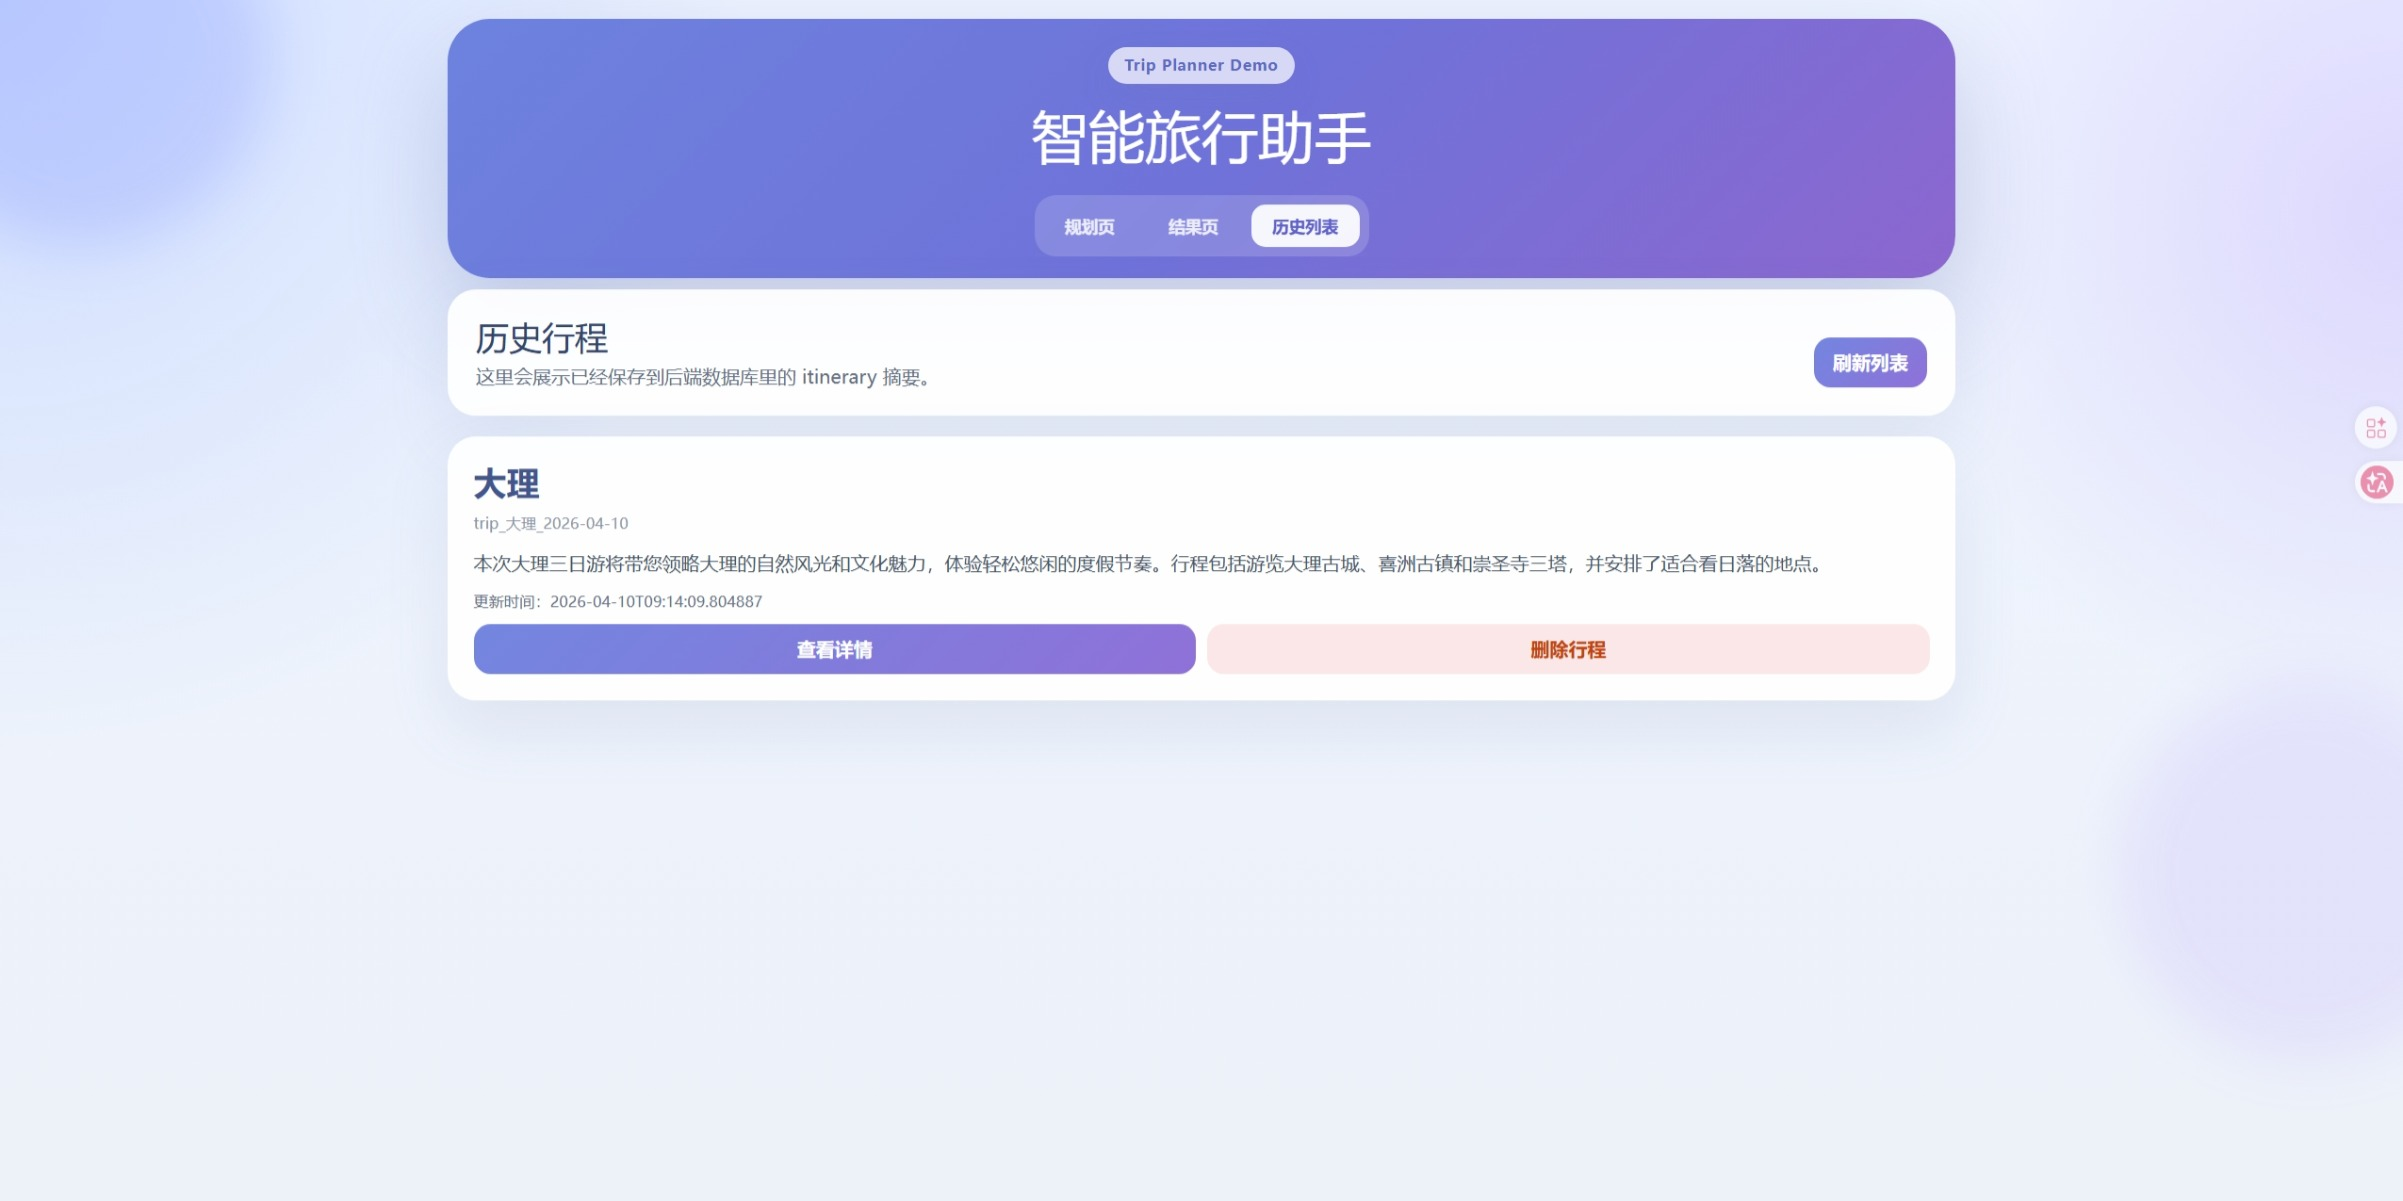
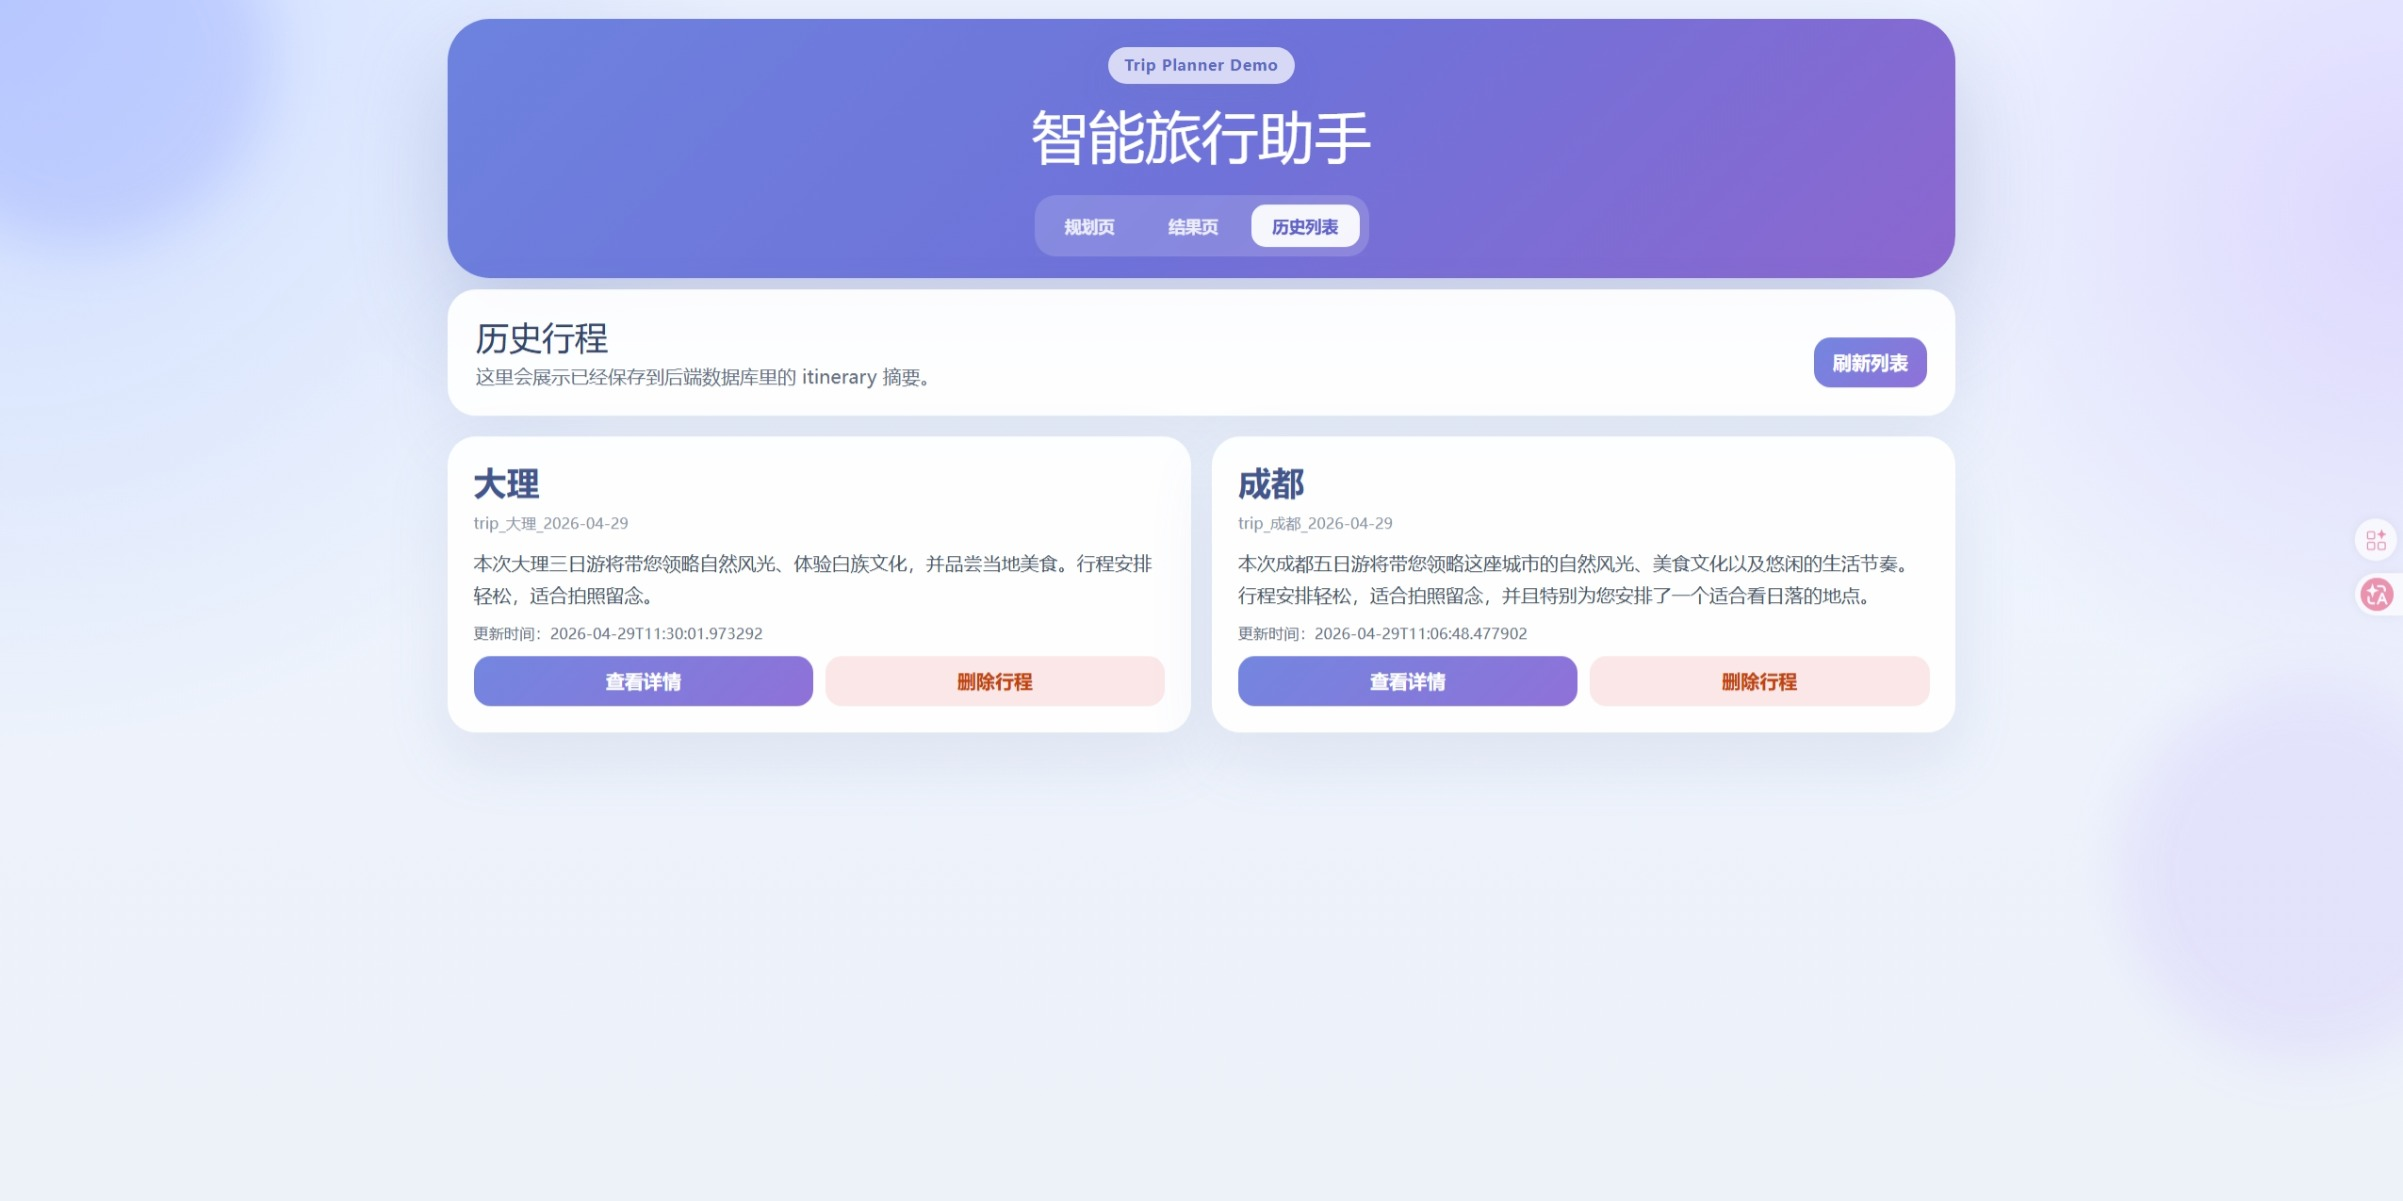
更新前端-地图显示

Changed region(s): [[0.1873, 0.3697, 0.8115, 0.6162], [0.9675, 0.3389, 0.9988, 0.4313], [0.9675, 0.4621, 0.9988, 0.5237]]

diff --git a/frontend/src/components/AmapTripMap.vue b/frontend/src/components/AmapTripMap.vue
@@ -11,6 +11,7 @@ interface TripMapPoint {
   latitude: number | null | undefined;
   longitude: number | null | undefined;
   poiId: string | null | undefined;
+  imageUrl?: string | null;
   description: string;
 }
 
@@ -27,6 +28,7 @@ declare global {
 const mapContainer = ref<HTMLDivElement | null>(null);
 const mapInstance = ref<any>(null);
 const markerList = ref<any[]>([]);
+const routeLine = ref<any>(null);
 const loadError = ref("");
 
 const amapKey = import.meta.env.VITE_AMAP_JS_KEY;
@@ -37,7 +39,7 @@ const validPoints = computed(() =>
   )
 );
 
-function clearMarkers() {
+function clearOverlays() {
   if (!mapInstance.value) {
     return;
   }
@@ -46,6 +48,11 @@ function clearMarkers() {
     mapInstance.value.remove(marker);
   });
   markerList.value = [];
+
+  if (routeLine.value) {
+    mapInstance.value.remove(routeLine.value);
+    routeLine.value = null;
+  }
 }
 
 function renderMarkers() {
@@ -53,25 +60,80 @@ function renderMarkers() {
     return;
   }
 
-  clearMarkers();
+  clearOverlays();
 
+  const sorted = [...validPoints.value].sort((a, b) => a.dayIndex - b.dayIndex);
   const bounds: [number, number][] = [];
+  const routePath: [number, number][] = [];
 
-  validPoints.value.forEach((point) => {
+  sorted.forEach((point) => {
     const position: [number, number] = [point.longitude as number, point.latitude as number];
     bounds.push(position);
+    routePath.push(position);
 
     const marker = new window.AMap.Marker({
       position,
       title: point.name,
-      label: {
-        content: `<div style="padding:2px 6px;border-radius:999px;background:#6d82de;color:#fff;font-size:12px;">D${point.dayIndex}</div>`,
-        direction: "top",
-      },
+      offset: new window.AMap.Pixel(-12, -28),
+      content: `
+        <div style="position:relative;display:flex;flex-direction:column;align-items:center;">
+          <div style="font-size:22px;line-height:1;">🚩</div>
+          <div style="
+            margin-top:2px;
+            padding:2px 7px;
+            border-radius:999px;
+            background:linear-gradient(135deg,#6d82de,#8a67cf);
+            color:#fff;
+            font-size:11px;
+            font-weight:700;
+            white-space:nowrap;
+            box-shadow:0 2px 6px rgba(0,0,0,0.18);
+          ">D${point.dayIndex}</div>
+        </div>
+      `,
+    });
+
+    const imageHtml = point.imageUrl
+      ? `<img src="${point.imageUrl}" alt="${point.name}" style="width:100%;height:100%;object-fit:cover;border-radius:8px;" />`
+      : `<div style="width:100%;height:100%;display:grid;place-items:center;border-radius:8px;background:linear-gradient(135deg,#e8edff,#f0e8ff);color:#8b8fad;font-size:10px;">暂无图片</div>`;
+
+    const bubble = new window.AMap.Marker({
+      position,
+      offset: new window.AMap.Pixel(14, -46),
+      content: `
+        <div style="
+          position:relative;
+          width:110px;
+          background:#fff;
+          border-radius:10px;
+          box-shadow:0 3px 12px rgba(0,0,0,0.12);
+          overflow:hidden;
+          font-family:-apple-system,BlinkMacSystemFont,'Segoe UI',sans-serif;
+        ">
+          <div style="width:110px;height:72px;overflow:hidden;background:#eef3ff;">
+            ${imageHtml}
+          </div>
+          <div style="padding:5px 8px 6px;">
+            <div style="font-size:11px;font-weight:600;color:#2d3748;line-height:1.3;overflow:hidden;text-overflow:ellipsis;white-space:nowrap;">${point.name}</div>
+          </div>
+          <div style="
+            position:absolute;
+            left:-5px;
+            top:30px;
+            width:0;
+            height:0;
+            border-top:5px solid transparent;
+            border-bottom:5px solid transparent;
+            border-right:5px solid #fff;
+            filter:drop-shadow(-2px 0 2px rgba(0,0,0,0.06));
+          "></div>
+        </div>
+      `,
+      zIndex: 100,
     });
 
     const infoWindow = new window.AMap.InfoWindow({
-      offset: new window.AMap.Pixel(0, -24),
+      offset: new window.AMap.Pixel(0, -32),
       content: `
         <div style="max-width:240px;padding:4px 2px;line-height:1.7;">
           <strong>${point.name}</strong><br/>
@@ -86,13 +148,35 @@ function renderMarkers() {
     });
 
     mapInstance.value.add(marker);
+    mapInstance.value.add(bubble);
     markerList.value.push(marker);
+    markerList.value.push(bubble);
   });
+
+  if (routePath.length >= 2) {
+    routeLine.value = new window.AMap.Polyline({
+      path: routePath,
+      strokeColor: "#6d82de",
+      strokeWeight: 3,
+      strokeOpacity: 0.8,
+      strokeStyle: "dashed",
+      strokeDasharray: [10, 6],
+      lineJoin: "round",
+      lineCap: "round",
+      showDir: true,
+      dirColor: "#6d82de",
+      dirSize: 8,
+      borderWeight: 1,
+      borderColor: "rgba(109,130,222,0.25)",
+      zIndex: 50,
+    });
+    mapInstance.value.add(routeLine.value);
+  }
 
   if (bounds.length === 1) {
     mapInstance.value.setZoomAndCenter(13, bounds[0]);
   } else if (bounds.length > 1) {
-    mapInstance.value.setFitView(markerList.value, false, [40, 40, 40, 40]);
+    mapInstance.value.setFitView(markerList.value, false, [60, 60, 60, 60]);
   }
 }
 
@@ -170,7 +254,7 @@ watch(validPoints, () => {
 });
 
 onBeforeUnmount(() => {
-  clearMarkers();
+  clearOverlays();
   if (mapInstance.value) {
     mapInstance.value.destroy();
     mapInstance.value = null;

diff --git a/frontend/src/views/Home.vue b/frontend/src/views/Home.vue
@@ -24,10 +24,21 @@ const dietaryOptions = [
   "不吃葱",
 ];
 
+function formatDate(date: Date): string {
+  const y = date.getFullYear();
+  const m = String(date.getMonth() + 1).padStart(2, "0");
+  const d = String(date.getDate()).padStart(2, "0");
+  return `${y}-${m}-${d}`;
+}
+
+const today = new Date();
+const todayPlus2 = new Date(today);
+todayPlus2.setDate(todayPlus2.getDate() + 2);
+
 const formState = reactive({
   destination: "大理",
-  startDate: "2026-04-10",
-  endDate: "2026-04-12",
+  startDate: formatDate(today),
+  endDate: formatDate(todayPlus2),
   travelers: 2,
   budget: 3200,
   hotelLevel: "舒适型",

diff --git a/CHANGELOG.md b/CHANGELOG.md
@@ -57,6 +57,13 @@ trip_planner:map:place:喜洲古镇:大理:1
 
 ## 2026-04-29
 
+### 地图路线可视化
+
+- 在高德地图上用虚线箭头连接各天行程点位，展示完整路线走向。
+- 每个目的地用 🚩 旗帜图标标记，直观体现打卡风格。
+- 鼠标悬停时展示景点图片气泡窗口（含景区图片和地名），无图片时显示占位提示。
+- 气泡窗口采用轻量卡片设计，尺寸紧凑，不遮挡地图主体内容。
+
 ### RAG 知识库扩充
 
 - 新增 4 个目的地攻略文档：`chengdu_guide.md`、`xian_guide.md`、`xiamen_guide.md`、`sanya_guide.md`。

diff --git a/README.md b/README.md
@@ -8,7 +8,9 @@
 
 ## 📝 最近更新
 
-- `2026-04-29`：扩充 RAG 知识库至 5 个目的地（大理/成都/西安/厦门/三亚），评估样例集扩充至 15 条，完成规则级 Rerank 多层降权与 Query Rewrite 目的地过滤。
+- `2026-04-29`
+  - RAG：扩充知识库至 5 个目的地（大理/成都/西安/厦门/三亚），评估样例集扩充至 15 条，完成规则级 Rerank 多层降权与 Query Rewrite 目的地过滤，消除跨目的地污染。
+  - 地图前端：新增地图路线虚线箭头可视化、🚩 旗帜打卡标记与景点图片气泡窗口。
 - `2026-04-25`：完成第一轮 RAG 在线阶段优化，已接入轻量化 Query Rewrite、轻量 Rerank 与检索调试脚本。
 - `2026-04-15`：新增 Redis 缓存层，已覆盖天气查询、地图查询与 RAG 检索结果缓存。
 
@@ -42,7 +44,7 @@
 - 🧠 **LLM 行程生成**：基于 LangChain + DashScope 调用 `qwen-max` 生成结构化旅行计划
 - 📚 **RAG 攻略增强**：使用本地 Markdown 攻略 + Chroma 向量检索，为生成结果补充目的地上下文
 - 🧭 **RAG 在线优化**：规则级 Query Rewrite（含目的地过滤）+ 多层 Rerank 降权（行程/简介/目的地不匹配），消除跨目的地污染
-- 🗺️ **高德地图接入**：补充景点地址、经纬度、POI ID、路线距离、耗时和景点图片
+- 🗺️ **高德地图接入**：补充景点地址、经纬度、POI ID、路线距离、耗时和景点图片，并支持虚线箭头路线可视化与 🚩 打卡标记
 - 🌦️ **天气感知提示**：前端展示天气预报，并根据雨天/阴天自动修正旅行提示
 - ⚡ **Redis 缓存层**：覆盖天气、地图与 RAG 检索缓存，减少重复外部调用开销
 - 💰 **预算拆分**：按交通、住宿、餐饮、门票、其他费用拆分，并支持按天展示